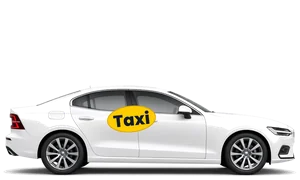
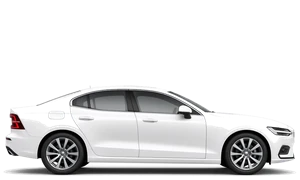
Bilar: ta bort taxiskylten från bilbilderna, lövet på Miljöbil kvar

Changed region(s): [[0.33, 0.5833, 0.54, 0.75]]

diff --git a/TaxiData/changelog.js b/TaxiData/changelog.js
@@ -16,7 +16,7 @@
  */
 window.CHANGELOG = [
   { datum: '2026-10-29', id: '2026-10-29j', rader: [   // tid sätts när det går live
-    ['Förbättrat', 'Admin › Bilar har nya bilder: vita bilar med en gul taxiskylt på dörren. Biltypen Special heter nu Miljöbil (en vit elbil med ett grönt löv) och det finns en ny biltyp, Executive (en svart SUV). Bilar som hade Special har nu Miljöbil. Kryssrutan Specialfordon finns kvar som förut.', 'agare']
+    ['Förbättrat', 'Admin › Bilar har nya bilder: vita bilar, som i vår flotta. Biltypen Special heter nu Miljöbil (en vit elbil med ett grönt löv) och det finns en ny biltyp, Executive (en svart SUV). Bilar som hade Special har nu Miljöbil. Kryssrutan Specialfordon finns kvar som förut.', 'agare']
   ] },
   { datum: '2026-10-29', id: '2026-10-29i', tid: '06:12', rader: [
     ['Nytt', 'Ankomster › Tåg: Mina tågnotiser. Välj vilka tåg du alltid vill ha notis om, till exempel snabbtågen från Stockholm, och bara de tider du jobbar, till exempel 17:00–05:00 måndag till fredag. Du får notis före ankomsten (till exempel 20 min före), när tåget blir försenat och om det ställs in. Notiserna kommer även när appen är stängd, om notiser är påslagna. Tåg som matchar får en liten klocka 🔔 i listan.'],

diff --git a/TaxiData/admin.html b/TaxiData/admin.html
@@ -1159,7 +1159,7 @@
     // Saknas resdata kan ägaren fylla i intäkt per år (exkl. moms) på bilen.
     const BK = { moms: 6, uber: 25, uberIn: 26, adm: 1.3, inpass: 2500, provision: 37, semester: 13, agavg: 31.42, bransleMoms: 25 };
     const BK_TYPES = { sedan: 'Personbil', kombi: 'Kombi', storbil: 'Storbil', miljobil: 'Miljöbil', executive: 'Executive' };
-    const BK_IMG_V = '20261029j';   // ändra när bilbilderna byts, så att gamla bilder inte visas från cachen
+    const BK_IMG_V = '20261029k';   // ändra när bilbilderna byts, så att gamla bilder inte visas från cachen
     let openCars = {};     // bilens id -> uträkningen visas
     function carType(c) {
       const k = c.kalkyl || {};
